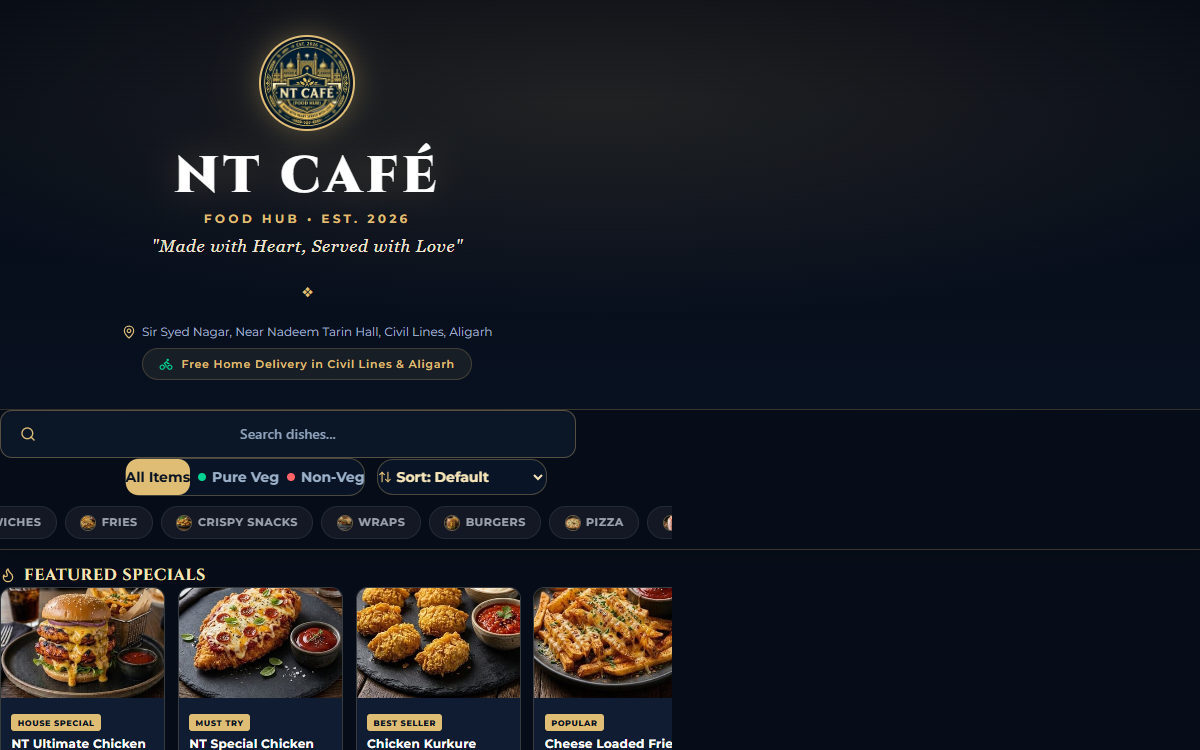
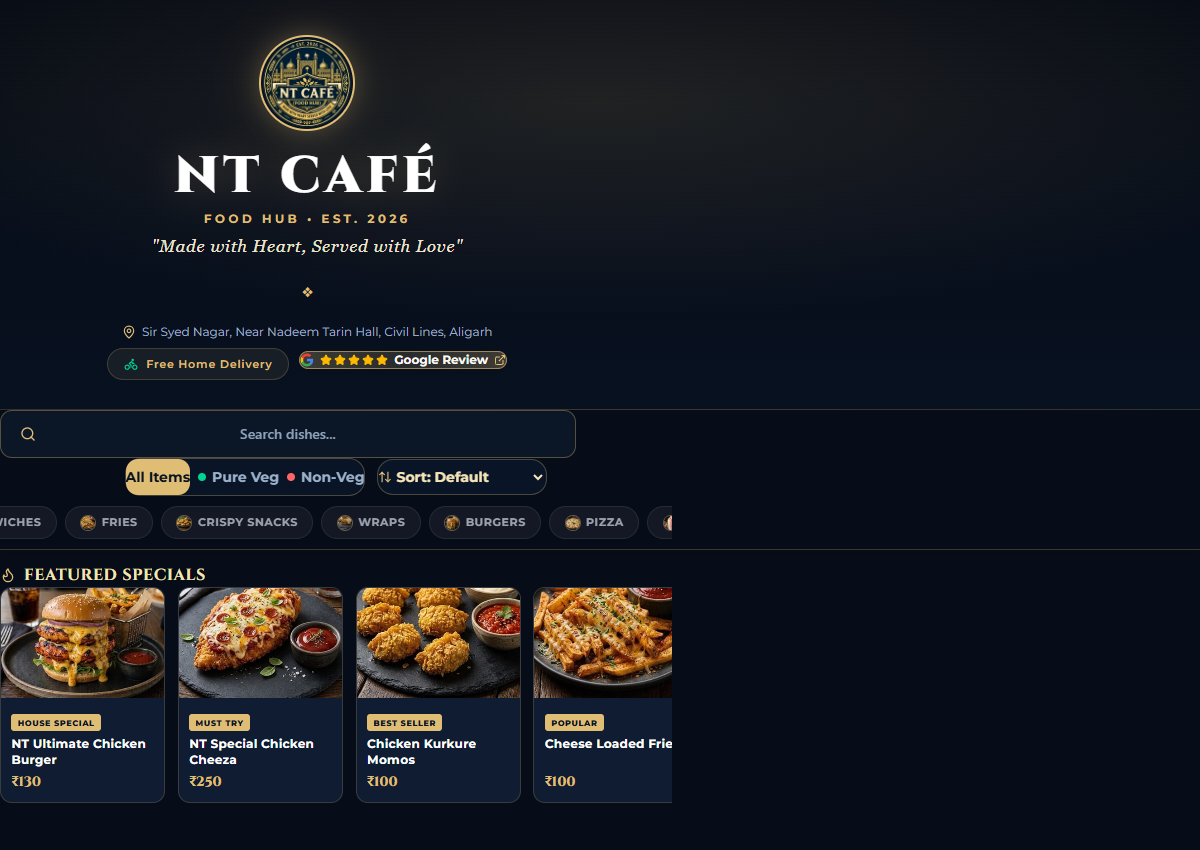
feat: add QuickEat digital menu, update cover photos to Antilia, fix NT Cafe framing, clean up cards

Changed region(s): [[0.0, 0.368, 0.5858, 1.0], [0.1233, 0.0307, 0.4008, 0.3373]]

diff --git a/src/data/projects.ts b/src/data/projects.ts
@@ -750,6 +750,59 @@ export const projects: Project[] = [
       "State: LocalStorage-backed cart persistence surviving accidental tab closures.",
     ],
   },
+  {
+    id: "quick-eat",
+    slug: "quick-eat",
+    number: "16",
+    title: "QUICK EAT CAFÉ",
+    client: "Quick Eat Café (Zakir Nagar Main Road, Okhla, New Delhi)",
+    category: "Café & Digital Menu",
+    industrySlug: "restaurants-cafes",
+    serviceSlugs: ["web-development", "digital-qr-menus", "ui-ux-implementation"],
+    tagline: "Crispy rolls, sizzling momos, and fast-casual dining menu with instant WhatsApp ordering.",
+    description:
+      "A high-converting, vibrant digital menu and online ordering platform engineered for Quick Eat Café in Zakir Nagar, Okhla. Features chicken tikka rolls, tandoori roasted momos, wok-tossed noodles, and direct 1-tap WhatsApp food ordering.",
+    impact: "+190% Direct WhatsApp Orders",
+    technologies: ["HTML5", "Modern CSS", "JavaScript", "GitHub Pages", "WhatsApp API"],
+    role: "Lead Frontend Developer & UI Engineer",
+    year: "2026",
+    image: "/images/projects/quick-eat.png",
+    liveUrl: "https://codewithabby07.github.io/quick-eat-cafe/",
+    featured: true,
+    challenge:
+      "Quick Eat Café needed a vibrant, visual menu to capture high footfall and delivery demand in Zakir Nagar, Okhla. They needed customers to browse hot rolls, momos, and Chinese dishes with instant WhatsApp delivery ordering without paying hefty commissions to third-party delivery apps.",
+    solution:
+      "We engineered an ultra-fast, mobile-first digital menu website featuring vibrant food reels, category tabs, Google review badges, and instant WhatsApp ordering that sends itemized orders directly to the counter.",
+    deliverables: [
+      "Custom Branded Café & Roll Menu Web Architecture",
+      "Interactive Food Category Showcase & Review Badges",
+      "Direct Single-Tap WhatsApp Express Ordering",
+      "Sub-Second Mobile Load Times with High-Res Visual Plates",
+      "Integrated Location, Call, and Timing Controls",
+    ],
+    keyFeatures: [
+      {
+        title: "Express WhatsApp Food Ordering",
+        description:
+          "Customers select their rolls and dishes and click 'Order on WhatsApp' to dispatch their order directly to staff.",
+      },
+      {
+        title: "Vibrant Zakir Nagar Hangout Identity",
+        description:
+          "High-contrast dark modern theme with neon café aesthetic and glowing food callouts.",
+      },
+      {
+        title: "Frictionless Category Navigation",
+        description:
+          "Quick switching between Rolls, Momos, Indo-Chinese, Shakes, and Combos.",
+      },
+    ],
+    architecture: [
+      "Frontend: Lightweight semantic HTML5, Modern CSS, and modular ES6 JavaScript.",
+      "Deployment: High-speed edge distribution via GitHub Pages CDN.",
+      "Conversion: Direct WhatsApp API hook with automatic message prefill.",
+    ],
+  },
 ];
 
 export const featuredProject =

diff --git a/src/components/WhatWeDo.tsx b/src/components/WhatWeDo.tsx
@@ -21,13 +21,13 @@ export function WhatWeDo() {
     {
       id: "digital-qr-menus",
       title: "Digital QR Menus",
-      badge: "Cafes & Dining • Zero Commission",
-      badgeColor: "bg-amber-500/10 text-amber-400 border-amber-500/20",
+      badge: "",
+      badgeColor: "",
       icon: UtensilsCrossed,
       iconColor: "text-amber-400",
       description:
         "Sub-second interactive mobile menus with live table carts, dietary filters, and direct WhatsApp ordering.",
-      image: "/images/projects/nt-cafe.png",
+      image: "/images/projects/antilia-menu.png",
       href: "/digital-qr-menus",
       cta: "Explore QR Menus",
       highlight: "Live Demos",
@@ -35,8 +35,8 @@ export function WhatWeDo() {
     {
       id: "website-development",
       title: "Website Development",
-      badge: "Bespoke Full-Stack Systems",
-      badgeColor: "bg-[#E44C1F]/10 text-[#E44C1F] border-[#E44C1F]/20",
+      badge: "",
+      badgeColor: "",
       icon: Code2,
       iconColor: "text-[#E44C1F]",
       description:
@@ -102,14 +102,16 @@ export function WhatWeDo() {
                       <div className="absolute inset-0 bg-gradient-to-t from-neutral-950 via-transparent to-transparent opacity-80" />
 
                       {/* Floating pill badge */}
-                      <div className="absolute top-3 left-3">
-                        <span
-                          className={`inline-flex items-center gap-1.5 rounded-full border px-3 py-1 text-[11px] font-mono font-semibold tracking-wide backdrop-blur-md ${item.badgeColor}`}
-                        >
-                          <Icon className="h-3 w-3" />
-                          <span>{item.badge}</span>
-                        </span>
-                      </div>
+                      {item.badge ? (
+                        <div className="absolute top-3 left-3">
+                          <span
+                            className={`inline-flex items-center gap-1.5 rounded-full border px-3 py-1 text-[11px] font-mono font-semibold tracking-wide backdrop-blur-md ${item.badgeColor}`}
+                          >
+                            <Icon className="h-3 w-3" />
+                            <span>{item.badge}</span>
+                          </span>
+                        </div>
+                      ) : null}
 
                       {/* Arrow Icon in Top Right */}
                       <div className="absolute top-3 right-3 flex h-8 w-8 items-center justify-center rounded-full bg-black/60 border border-white/15 text-white/70 group-hover:text-white group-hover:bg-[#E44C1F] group-hover:border-[#E44C1F] transition-all">

diff --git a/src/routes/digital-qr-menus.tsx b/src/routes/digital-qr-menus.tsx
@@ -46,6 +46,24 @@ function DigitalQrMenusPage() {
 
   const menuShowcases = [
     {
+      id: "quick-eat",
+      title: "QUICK EAT CAFÉ",
+      subtitle: "Zakir Nagar Main Road, Okhla, New Delhi",
+      description:
+        "High-conversion fast-casual digital ordering menu. Features loaded rolls, tandoori momos, Indo-Chinese noodles, and 1-tap WhatsApp delivery orders that route straight to the kitchen counter.",
+      image: "/images/projects/quick-eat.png",
+      liveUrl: "https://codewithabby07.github.io/quick-eat-cafe/",
+      tech: ["HTML5", "Modern CSS", "JavaScript", "GitHub Pages", "WhatsApp API"],
+      metrics: ["+190% Direct WhatsApp Orders", "Sub-Second Load Time", "Zero Aggregator Cuts"],
+      highlights: [
+        "Direct 1-tap WhatsApp express ordering",
+        "Crispy rolls, momos & wok noodle showcase",
+        "Vibrant neon Zakir Nagar hangout branding",
+        "Google review badges & phone/direction links",
+        "Mobile-first responsive fluid layout",
+      ],
+    },
+    {
       id: "nt-cafe",
       title: "NT CAFÉ (FOOD HUB)",
       subtitle: "Civil Lines, Sir Syed Nagar, Aligarh",

diff --git a/src/components/Work.tsx b/src/components/Work.tsx
@@ -22,6 +22,7 @@ function getProjectTags(project: Project): string[] {
     "aureline-interiors": ["Interior", "Architecture"],
     "nt-cafe": ["QR Menu", "Food Hub"],
     "antilia-menu": ["QR Menu", "Dining & Bar"],
+    "quick-eat": ["QR Menu", "Café & Rolls"],
   };
 
   if (customTags[project.slug] || customTags[project.id]) {
@@ -48,6 +49,7 @@ function renderStyledTitle(project: Project) {
     "aureline-interiors": { main: "Aureline", accent: "Interiors" },
     "nt-cafe": { main: "NT Café", accent: "Food Hub" },
     "antilia-menu": { main: "Antilia", accent: "Restaurant" },
+    "quick-eat": { main: "Quick Eat", accent: "Café" },
   };
 
   const item = customTitles[project.slug] || customTitles[project.id];
@@ -235,6 +237,7 @@ export function Work() {
   const FEATURED_SLUGS = [
     "alp-buildcon",
     "creavo",
+    "quick-eat",
     "nt-cafe",
     "antilia-menu",
     "zainca",

diff --git a/src/data/industries.ts b/src/data/industries.ts
@@ -295,7 +295,7 @@ export const industries: Industry[] = [
       "Admin Panel for Live Price & Dish Availability Updates",
     ],
     techFocus: ["React", "TypeScript", "Tailwind CSS", "Vercel Edge", "WhatsApp API"],
-    projectSlugs: ["nt-cafe", "antilia-menu"],
+    projectSlugs: ["quick-eat", "nt-cafe", "antilia-menu"],
     relatedServices: ["web-development", "digital-qr-menus", "ui-ux-implementation"],
   },
 ];
